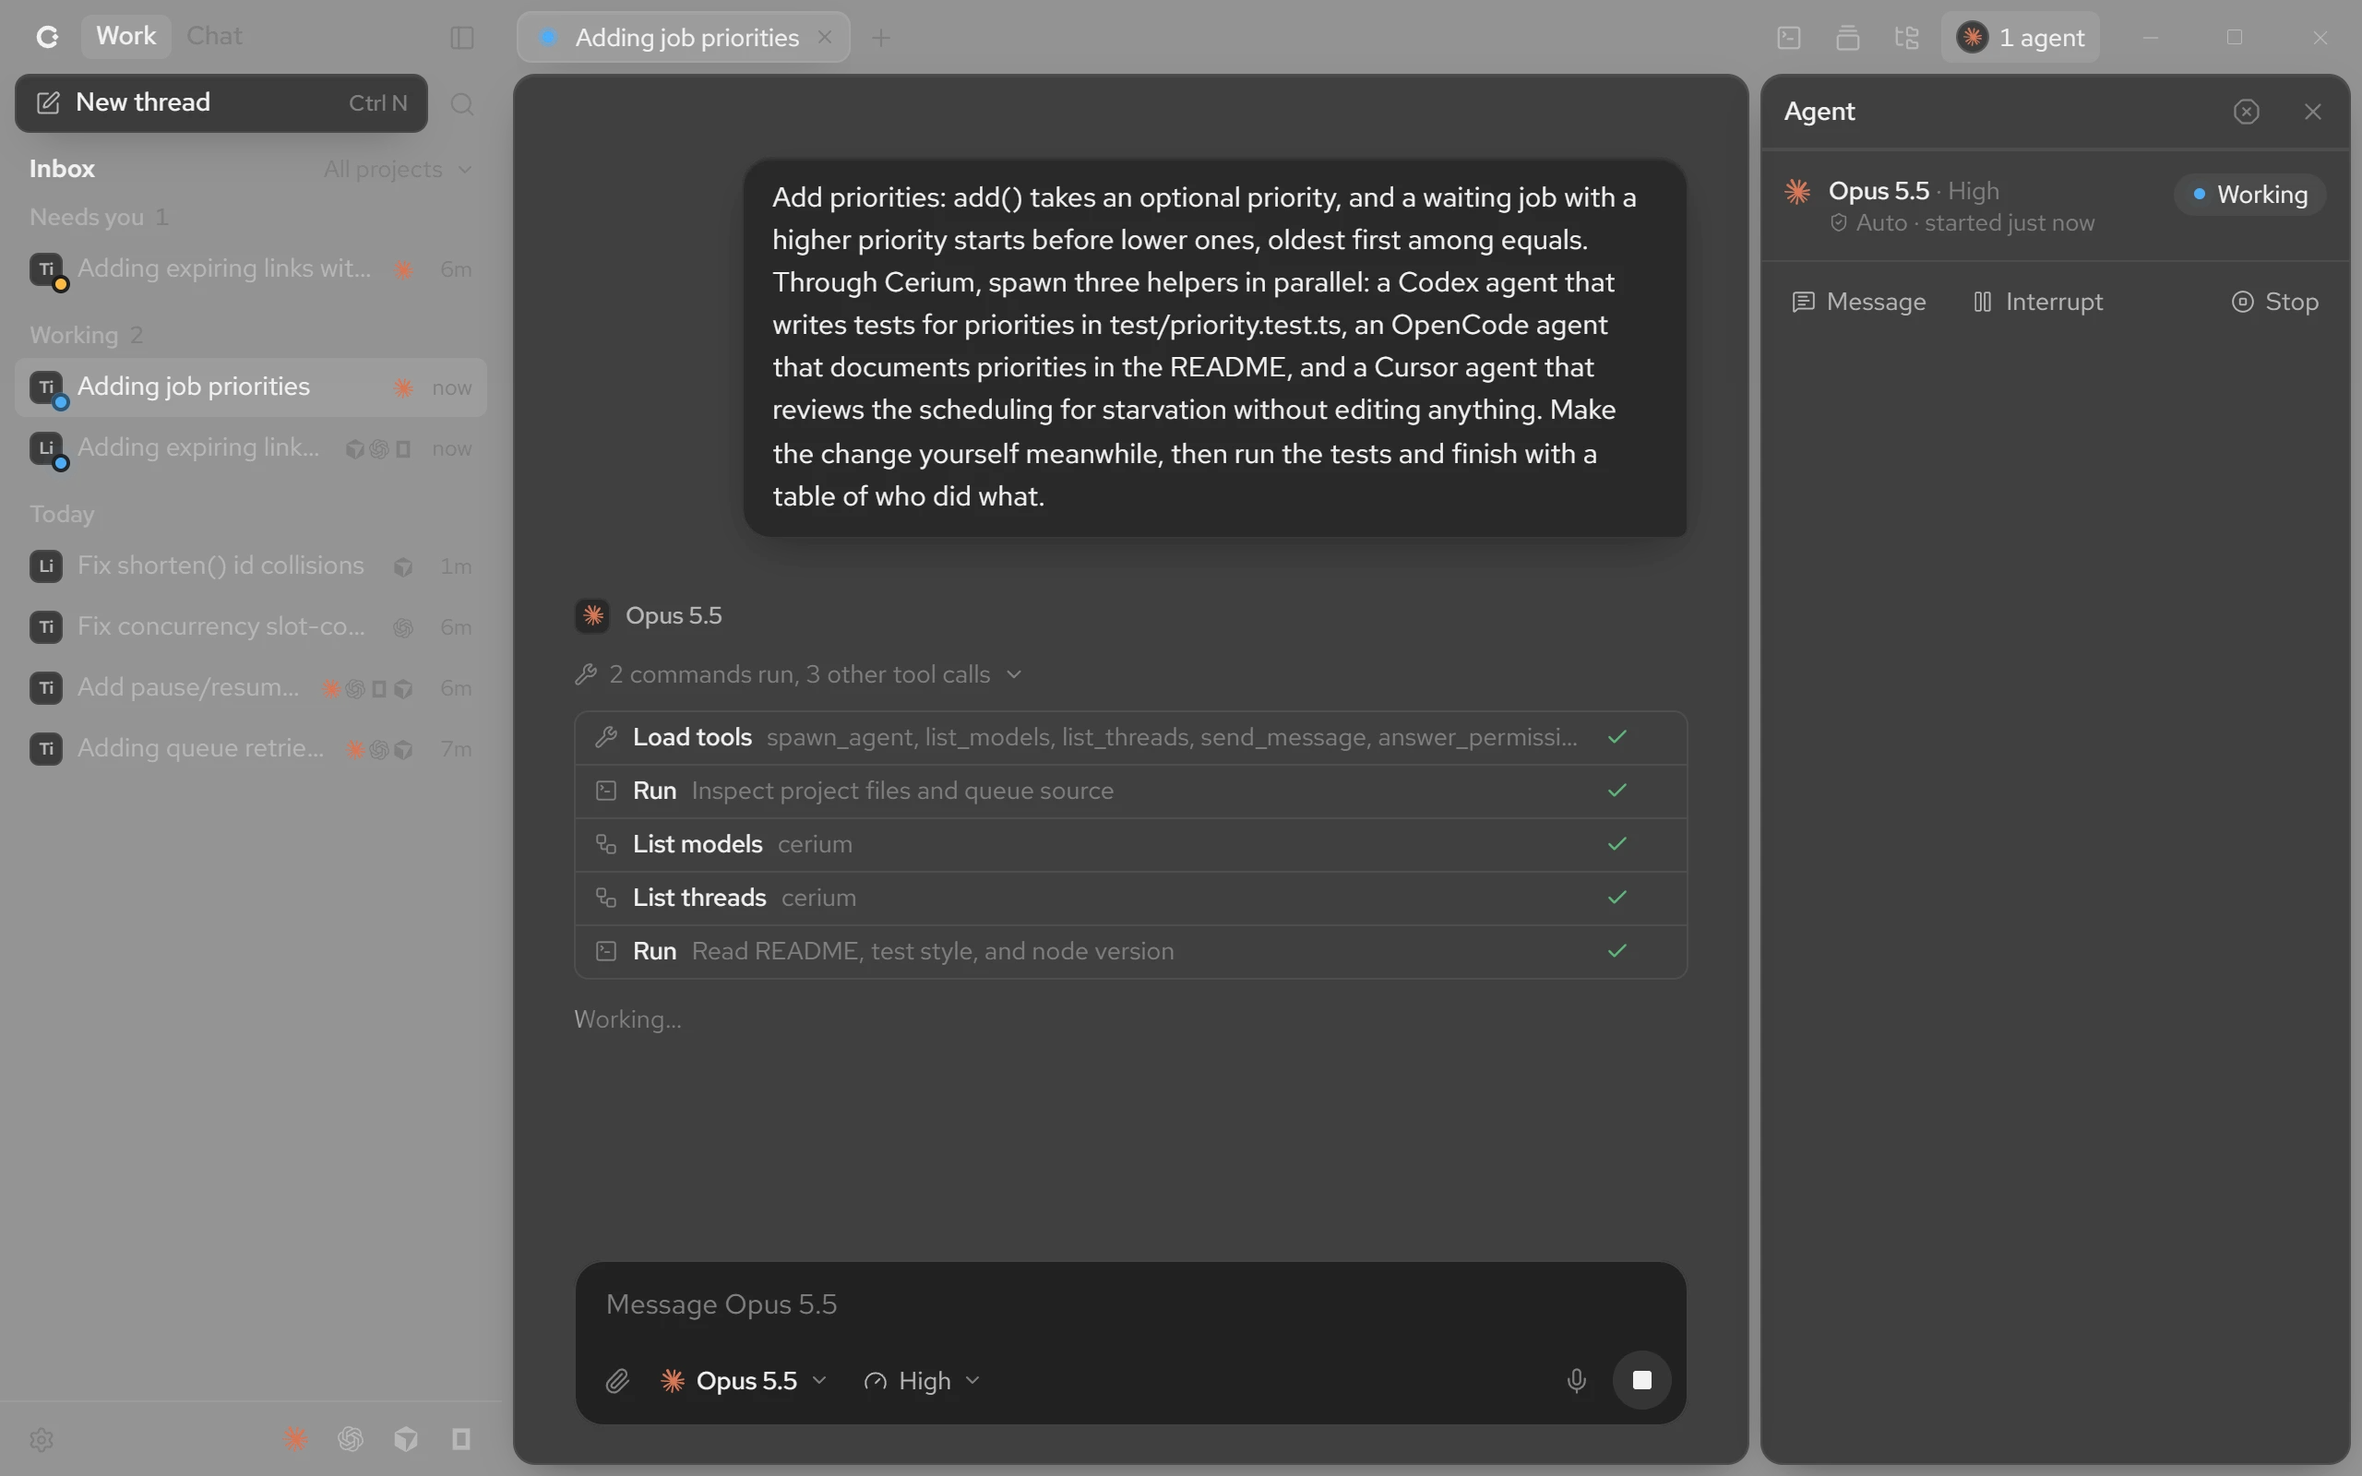
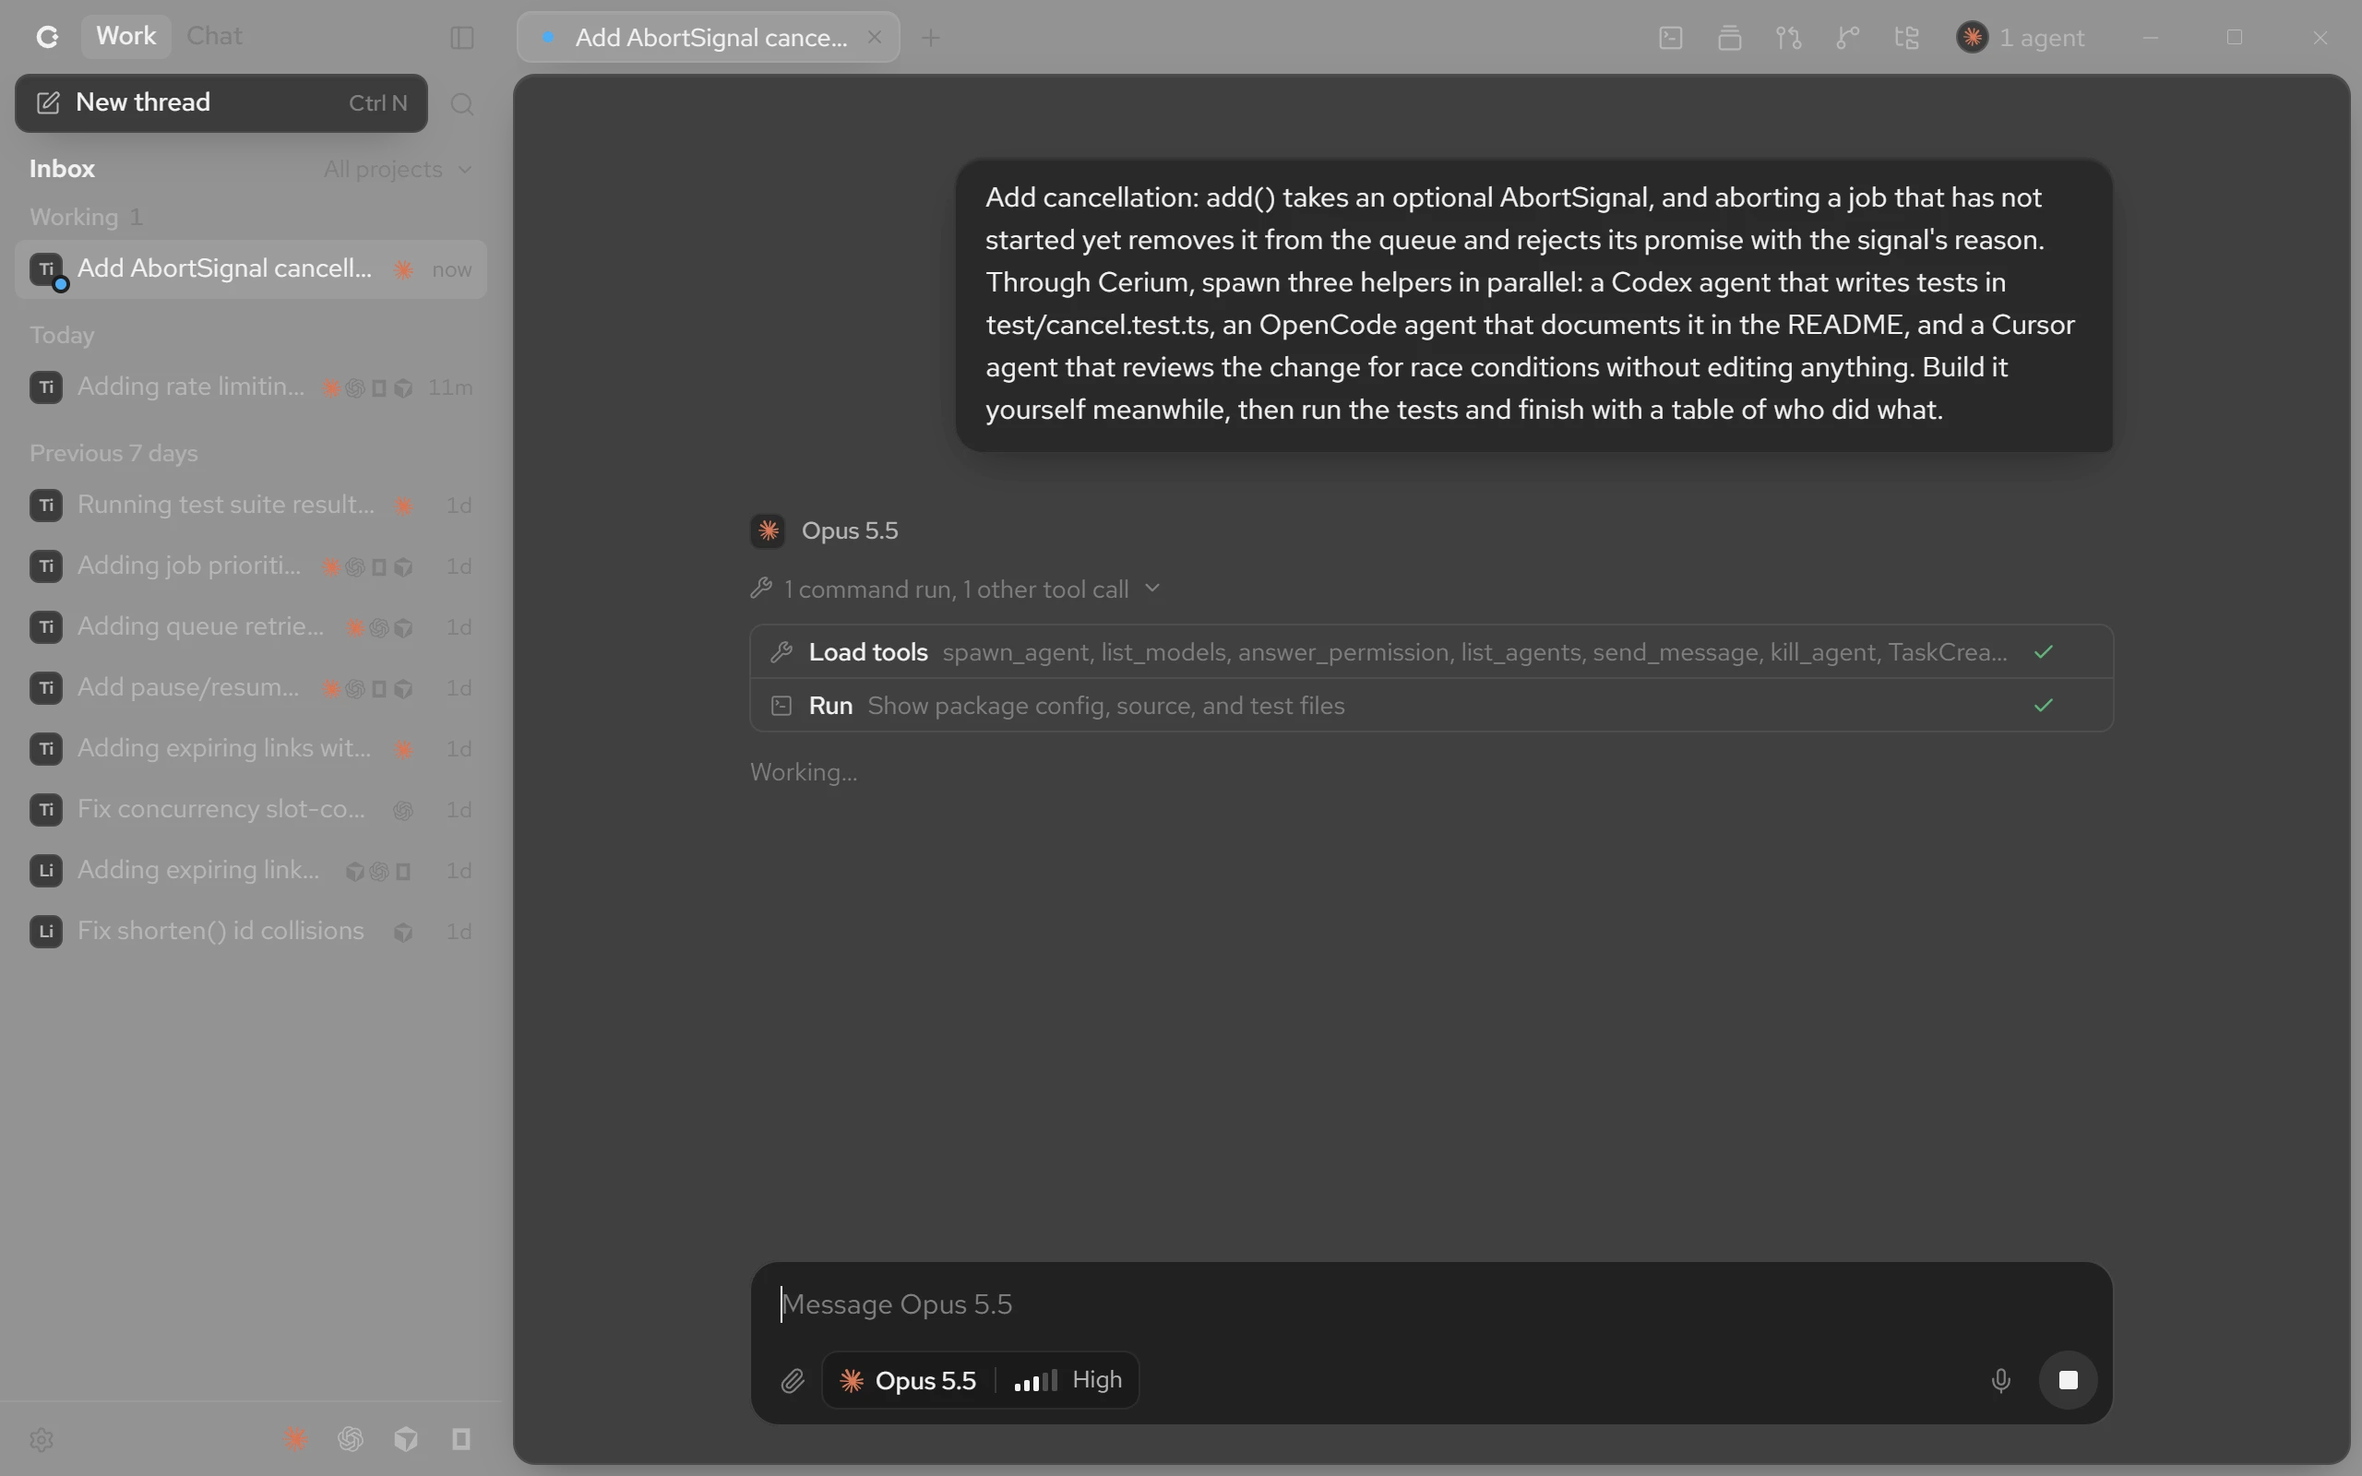
feat(site): show today's app in every picture, tell the story in three steps and lead the features with Git and GitHub

diff --git a/apps/site/index.html b/apps/site/index.html
@@ -171,7 +171,7 @@
               src="./src/media/hero.webp"
               width="2560"
               height="1600"
-              alt="Cerium with a Claude lead adding job priorities while a Codex agent writes the tests, an OpenCode agent the docs and a Cursor agent reviews the scheduling, all four working, and the lead telling the project's other threads which file it is about to change"
+              alt="Cerium with a Claude lead adding cancellation to a job queue while a Codex agent writes the tests, an OpenCode agent the docs and a Cursor agent reviews it for race conditions, all four working"
             />
           </figure>
         </div>
@@ -315,23 +315,14 @@
               </li>
               <li data-step="1">
                 <div>
-                  <h3>The lead splits the work.</h3>
-                  <p>Tests to Codex, docs to OpenCode, a review to Cursor. All three start at once.</p>
+                  <h3>Four agents at once.</h3>
+                  <p>Tests to Codex, docs to OpenCode, a review to Cursor, while the lead builds it.</p>
                 </div>
               </li>
               <li data-step="2">
                 <div>
-                  <h3>Four agents, one window.</h3>
-                  <p>
-                    Every agent's plan and progress, side by side. They warn each other before touching the
-                    same files.
-                  </p>
-                </div>
-              </li>
-              <li data-step="3">
-                <div>
                   <h3>One answer comes back.</h3>
-                  <p>The lead runs the tests, checks the work and tells you who did what.</p>
+                  <p>The lead checks the work, runs the tests and tells you who did what.</p>
                 </div>
               </li>
             </ol>
@@ -350,7 +341,7 @@
                     width="1280"
                     height="800"
                     loading="lazy"
-                    alt="A request to add job priorities, with the lead starting on it"
+                    alt="A request to add cancellation to a job queue, with the lead starting on it"
                     data-frame="ask"
                   />
                   <img
@@ -358,7 +349,7 @@
                     width="1280"
                     height="800"
                     loading="lazy"
-                    alt="The lead's three helpers in Codex, OpenCode and Cursor, all four agents working"
+                    alt="The lead's three helpers in Codex, OpenCode and Cursor, all four agents working, with the agents panel open"
                     data-frame="team"
                   />
                   <img
@@ -385,28 +376,27 @@
               Nothing to switch to.
             </h2>
             <p class="mt-5 text-[18px] leading-[1.55] text-fg-secondary">
-              The project, a terminal and every answer sit beside the thread. Your phone picks up where your
-              desk left off.
+              Review the work and ship it beside the thread. Your phone picks up where your desk left off.
             </p>
           </div>
 
           <div class="plate-wide">
             <div class="plate-copy">
-              <h3>The whole project, beside the thread.</h3>
+              <h3>Git and GitHub, beside the thread.</h3>
               <p>
-                Walk the folder with git's changes marked and run a terminal in it, without leaving the thread
-                that's changing it.
+                Read each change as a diff, stage the lines you want and commit, then work through pull
+                requests and issues without leaving Cerium.
               </p>
             </div>
             <div class="plate-media">
               <div class="glow" aria-hidden="true"></div>
               <figure class="window glass">
                 <img
-                  src="./src/media/feature-window.webp"
+                  src="./src/media/feature-git.webp"
                   width="2400"
                   height="1500"
                   loading="lazy"
-                  alt="A finished thread with the project's files beside it, new and changed files marked, and a terminal below showing all 29 tests passing"
+                  alt="The agents' change to queue.ts as a diff, beside Source control listing the project's changed files with Stage and Commit"
                 />
               </figure>
             </div>
@@ -441,8 +431,8 @@
                   <figure class="window glass artifact">
                     <img
                       src="./src/media/feature-artifact.webp"
-                      width="1513"
-                      height="1766"
+                      width="1590"
+                      height="1324"
                       loading="lazy"
                       alt="An agent's answer drawn as a view of the test results: 29 of 29 passed, each test file with its tests and how long each took"
                     />
@@ -456,28 +446,16 @@
 
           <ul class="more">
             <li>
-              <h3>Undo a turn</h3>
+              <h3>Undo any turn</h3>
               <p>Take a thread back to before any message, its files included.</p>
             </li>
             <li>
               <h3>A worktree per thread</h3>
-              <p>Threads in one project stop changing each other's files.</p>
-            </li>
-            <li>
-              <h3>Dictate on your PC</h3>
-              <p>Speak the request. Whisper turns it into text on your own machine.</p>
+              <p>Threads working in one project never change each other's files.</p>
             </li>
             <li>
               <h3>Know what's left</h3>
               <p>Every plan's usage in one place, with a warning before it runs out.</p>
-            </li>
-            <li>
-              <h3>Ctrl K for everything</h3>
-              <p>Find a thread by anything said in it, or run any action.</p>
-            </li>
-            <li>
-              <h3>Updates itself</h3>
-              <p>Stable or nightly, checked at launch and every six hours.</p>
             </li>
           </ul>
         </div>

diff --git a/apps/site/src/story.ts b/apps/site/src/story.ts
@@ -13,16 +13,15 @@ interface Shot {
   readonly width: number;
 }
 
-// The conversation's column of messages runs from 296 to 932.
+// The conversation's column of messages runs from 296 to 932 with the agents panel open, and from 406
+// to 1146 without it, as in the first frame.
 const shots: ReadonlyArray<Shot> = [
   // The request, and the lead getting started.
-  { frame: "ask", x: 296, y: 70, width: 636 },
-  // The three helpers' cards, and the lead warning the project's other threads.
-  { frame: "team", x: 296, y: 236, width: 636 },
-  // Pulled back: the agents panel with all four working.
+  { frame: "ask", x: 390, y: 60, width: 772 },
+  // Pulled back: the lead's plan for its helpers, and the agents panel with all four working.
   { frame: "team", x: 282, y: 30, width: 998 },
   // The lead's table of who did what.
-  { frame: "answer", x: 296, y: 176, width: 636 },
+  { frame: "answer", x: 296, y: 124, width: 636 },
 ];
 
 const clamp = (value: number, low: number, high: number) => Math.min(high, Math.max(low, value));

diff --git a/CHANGELOG.md b/CHANGELOG.md
@@ -197,7 +197,7 @@ All notable changes to Cerium are recorded here. The format follows
 - Edit and resend: the pencil beside one of your messages in a thread (or "Edit message" in its right-click menu) opens it in place; sending the new version takes the conversation back to before it and goes on from there. What it replaced folds into an "Earlier version" line you can open to read. A running turn stops, and agents spawned in the replaced turns stop with it; files stay as they are. Claude, Codex and OpenCode fork their own session at that message (the Agent SDK's `forkSession`, `thread/fork`, `session.fork`), so the agent keeps everything before it and nothing after; Cursor and Muse, which can't fork, start a new session that is told the conversation up to there with your new message. Adapters gain `fork`, each turn goes to its harness with an id it can be found by, the log records the rewind as a `ConversationRewound` event, and the backend has a new `EditMessage` call (`RPC_VERSION` 11). `node apps/backend/scripts/live-fork.ts` checks each forking harness live.
 - Restore to before a message: the arrow beside one of your messages in a thread (or "Restore to before this message" in its right-click menu) takes the thread back to just before you sent it, the files included. A confirmation first says what goes: your messages from there on, how the agent's conversation goes back (Claude, Codex and OpenCode fork their session; others start a new one told the conversation so far), the agents it stops, and the files it puts back, each marked as an edit undone, a file removed or one brought back. A file another thread in the same folder also changed is left as it is and listed, so undoing one thread never undoes another's work; files you changed yourself are untouched too. The message comes back to the message box to send again, and what was undone folds into an "Earlier version" saying how many files went back. Work threads' folders are snapshotted as each turn starts and ends, in a private git store under Cerium's data folder that leaves the folder's own repository alone, honours its `.gitignore`, and skips dependency and build folders; a snapshot never holds a turn up. New `PreviewRestore` and `RestoreBefore` calls (`RPC_VERSION` 11) and `FilesSaved`/`FilesRestored` events.
 - Voice dictation in the desktop's message box: the microphone button beside send, or Ctrl M, starts listening and stops again; Esc drops the recording. Speech becomes text at the caret on this computer, by OpenAI's Whisper running through Transformers.js on the GPU (WebGPU), or the CPU where there is none. No audio leaves the machine and Cerium holds no speech service key. A long prompt is written as you talk, in pieces cut at pauses, and Ctrl Z takes dictated text back like typing. While listening, the button becomes a pill with the time and a level meter. The first use downloads the model from Hugging Face once, with its progress in the pill. A microphone that Windows' privacy settings block, a missing one, one in use, a failed download and a recording with no speech each say so above the message, with a button to Windows' microphone settings or to try again. Settings → Dictation picks the language spoken (the system's by default) and the model: Base (quick, about 210 MB) or Small (more accurate, about 410 MB). The ONNX runtime ships with the desktop app; the web client, which doesn't dictate, leaves it out.
-- Cerium's website (`apps/site`, `bun run --cwd apps/site dev`): one page that shows the app more than it explains it. A beam of light switches on behind the hero and parts into a spectrum behind the app's window, whose glass lets it through. Each of the four harnesses catches a ray. One real thread plays out as the page scrolls, the window's camera moving to each step. The project and terminal, the phone and artifacts each get a picture of their own. A switcher shows all six themes in dark and light, the light behind turning to each one's hues, and the rays meet again over the download. Brands appear in their official marks; the motion plays once, and not at all with reduced motion.
+- Cerium's website (`apps/site`, `bun run --cwd apps/site dev`): one page that shows the app more than it explains it. A beam of light switches on behind the hero and parts into a spectrum behind the app's window, whose glass lets it through. Each of the four harnesses catches a ray. One real four-harness thread plays out in three steps as the page scrolls, the window's camera moving to each. Git and GitHub, the phone and artifacts each get a picture of their own, then undoing a turn, a worktree per thread and every plan's usage a line each. A switcher shows all six themes in dark and light, the light behind turning to each one's hues, and the rays meet again over the download. Brands appear in their official marks; the motion plays once, and not at all with reduced motion.
 - `apps/site/scripts/capture.ts` captures the UI for the site as the desktop draws it over Acrylic: against a showcase backend, in any theme and mode, with nothing painted behind Cerium's own glass so the PNG or WebP keeps its transparency, through `bun run ui act` steps and whole-window or per-element shots. `apps/site/scripts/webp.ts` crops and converts captures to WebP with their alpha. `@cerium/browser` exports `parseStep` and `runStep` for scripts like these.
 
 - `@cerium/rpc` and the backend: the commit history calls behind Source control's History tab (`RPC_VERSION` 17). `CommitHistory` lists the branch checked out in a work thread's folder a page at a time, newest first, filtered by message or author, each commit with its branch, tag and upstream refs and a mark when it isn't pushed yet; `CommitDetail` gives one commit's whole message and the files under the folder it changed; `CommitDiffFile` diffs one of those files against its first parent.
